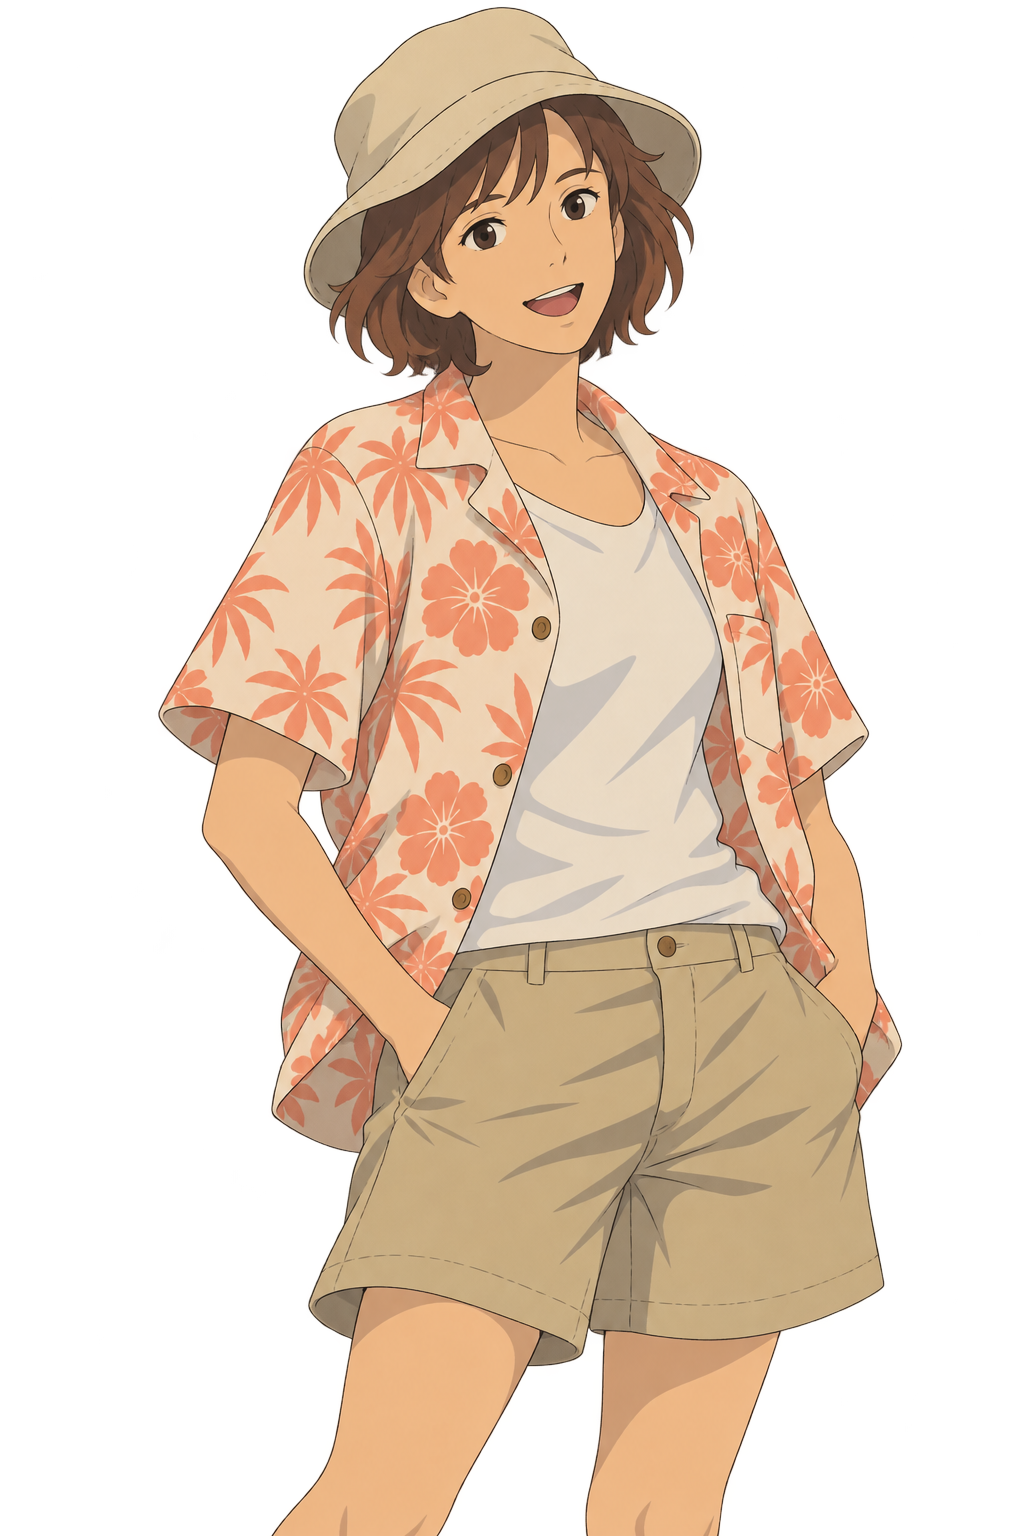
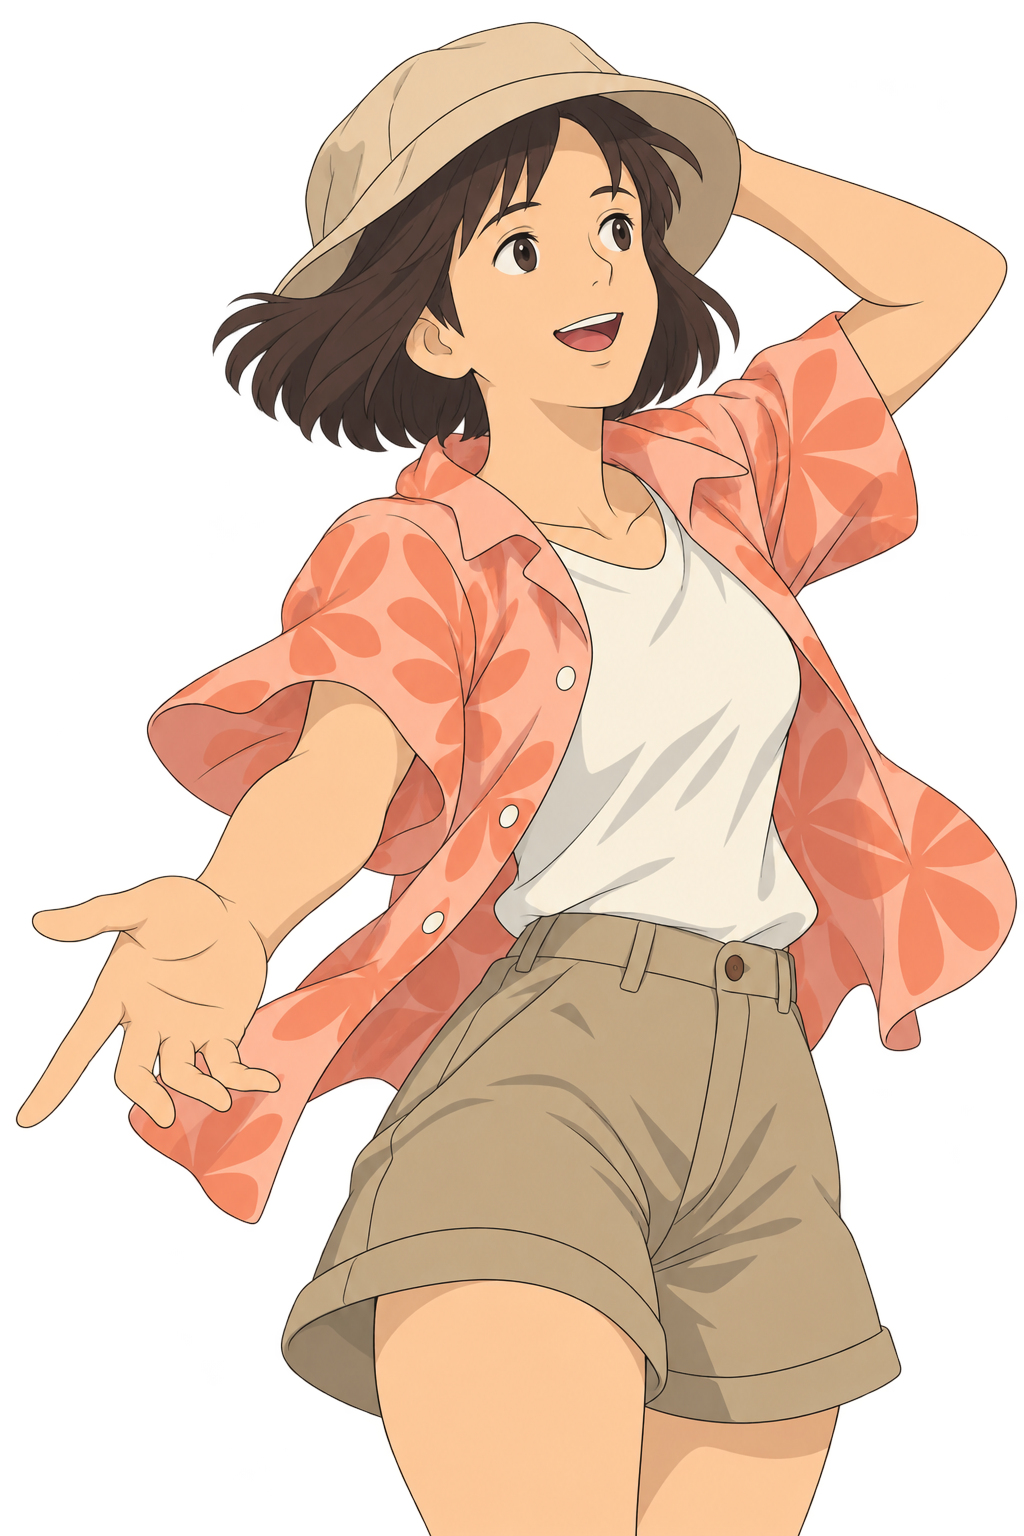
fix character label

diff --git a/docs/notes.css b/docs/notes.css
@@ -1,2 +1,13 @@
 /* Compact agent cards leave room for a user-owned trip notepad. */
 .chooser{display:flex;flex-direction:column;align-self:start;gap:18px}.agent-options{display:grid;gap:18px}.agent-options .agent-card{height:auto;min-height:230px;padding-bottom:24px}.agent-options .agent-card strong{margin-top:62px;padding-top:0}.agent-options .agent-card .orb{width:145px;height:145px;top:35px;right:15px}.trip-notepad{width:100%;border:1px solid #c9d5bf;border-radius:14px;background:#fffdf4;box-shadow:0 8px 24px #294d400b;overflow:hidden}.notes-head{display:flex;align-items:center;justify-content:space-between;padding:15px 18px;border-bottom:1px dashed #d3dccb;gap:10px}.notes-head h2{font:700 15px Manrope,sans-serif;margin:0;letter-spacing:-.02em}.notes-head>div{display:flex;gap:14px}.trip-notepad textarea{display:block;resize:vertical;width:100%;min-height:270px;max-height:650px;border:0;padding:16px 18px;color:#294d3b;background:linear-gradient(#fffdf4 27px,#e9eddf 28px);background-size:100% 28px;font:12px/28px 'DM Sans',sans-serif;outline-offset:-3px}.trip-notepad textarea::placeholder{color:#86927d}.trip-notepad textarea:focus{outline:2px solid #6b8b69}.trip-notepad>small{display:block;padding:10px 18px 13px;color:#778573;font-size:10px;line-height:1.5;background:#f6f8ed}.sr-only{position:absolute;width:1px;height:1px;padding:0;margin:-1px;overflow:hidden;clip:rect(0,0,0,0);white-space:nowrap;border:0}@media(max-width:850px){.chooser{width:100%}.agent-options{grid-template-columns:1fr 1fr}.trip-notepad textarea{min-height:190px}}@media(max-width:600px){.agent-options{gap:12px}.agent-options .agent-card{min-height:230px;padding:17px}.agent-options .agent-card .orb{width:112px;height:112px;right:-4px}.trip-notepad textarea{font-size:14px}}@media(max-width:370px){.agent-options{grid-template-columns:1fr}.agent-options .agent-card{min-height:210px}.agent-options .agent-card strong{margin-top:38px}}
+
+/* The notepad follows the active companion without changing its saved contents. */
+.trip-notepad[data-companion="sage"]{--note-paper:#fff7ec;--note-header:#f8ecdc;--note-line:#ead9c3;--note-border:#dec6a7;--note-ink:#654c35;--note-accent:#94603c;--note-muted:#88735d}
+.trip-notepad[data-companion="astra"]{--note-paper:#f3f8ef;--note-header:#e9f0e3;--note-line:#d9e4d1;--note-border:#b9ceb5;--note-ink:#36553f;--note-accent:#476e53;--note-muted:#73836b}
+.trip-notepad[data-companion]{border-color:var(--note-border);background:var(--note-paper);color:var(--note-ink)}
+.trip-notepad[data-companion] .notes-head{background:var(--note-header);border-color:var(--note-border)}
+.trip-notepad[data-companion] .text-button{color:var(--note-accent)}
+.trip-notepad[data-companion] textarea{background:linear-gradient(var(--note-paper) 27px,var(--note-line) 28px);background-size:100% 28px;color:var(--note-ink)}
+.trip-notepad[data-companion] textarea::placeholder{color:var(--note-muted)}
+.trip-notepad[data-companion] textarea:focus{outline-color:var(--note-accent)}
+.trip-notepad[data-companion]>small{background:var(--note-header);color:var(--note-muted)}

diff --git a/docs/characters.css b/docs/characters.css
@@ -19,3 +19,15 @@
 .conversation>.controls,.conversation>.conversation-head{flex-shrink:0}
 @media(max-width:600px){.initial-option{grid-template-columns:13px minmax(0,1fr);padding:13px 10px}#planning-stage .agent-options .agent-card{min-height:325px}#planning-stage .agent-portrait{width:280px;height:420px;top:25px}#planning-stage .agent-card strong{margin-top:190px;font-size:27px}#planning-stage .agent-card small{padding-bottom:15px}.initial-option small{font-size:9px}}
 @media(max-width:370px){.initial-options{grid-template-columns:1fr 1fr}#planning-stage .agent-portrait{width:260px;height:390px;top:28px}}
+
+/* Compact header above the artwork, replacing the bottom caption strip. */
+#planning-stage .agent-options .agent-card{min-height:360px}
+#planning-stage .agent-card strong{position:absolute;top:18px;left:20px;margin:0;padding:0;background:transparent;color:#47392b;font-size:28px}
+#planning-stage .agent-card .card-top{position:absolute;top:28px;left:122px;right:20px;width:auto;padding:0;font-size:8px;letter-spacing:.08em;gap:8px}
+#planning-stage .agent-card small{position:absolute;top:62px;left:20px;right:20px;padding:0;margin:0;max-width:none;background:transparent;color:#756452;font-size:10px}
+#planning-stage .agent-card.astra strong,#planning-stage .agent-card.astra small{background:transparent}
+#planning-stage .agent-card.astra strong{color:#2d4936}
+#planning-stage .agent-card.astra small{color:#60745d}
+#planning-stage .agent-portrait{top:92px;width:310px;height:465px}
+@media(max-width:600px){#planning-stage .agent-options .agent-card{min-height:350px}#planning-stage .agent-card strong{margin:0;font-size:27px}#planning-stage .agent-card small{padding:0}#planning-stage .agent-portrait{top:87px;width:300px;height:450px}}
+@media(max-width:370px){#planning-stage .agent-card .card-top{left:112px;font-size:7px}#planning-stage .agent-portrait{width:285px;height:428px}}

diff --git a/docs/app.js b/docs/app.js
@@ -80,6 +80,7 @@
   });
   function syncControls() {
     document.querySelector('.conversation').dataset.agent = agent;
+    document.querySelector('.trip-notepad').dataset.companion = agent;
     const locked = enrolling || (engine === 'pipeline' ? pipeline.isLocked() : connecting || connected);
     realtimeEngine.disabled = pipelineEngine.disabled = locked;
     cards.forEach(card => { card.disabled = locked; card.hidden = card.dataset.agent !== agent; });
